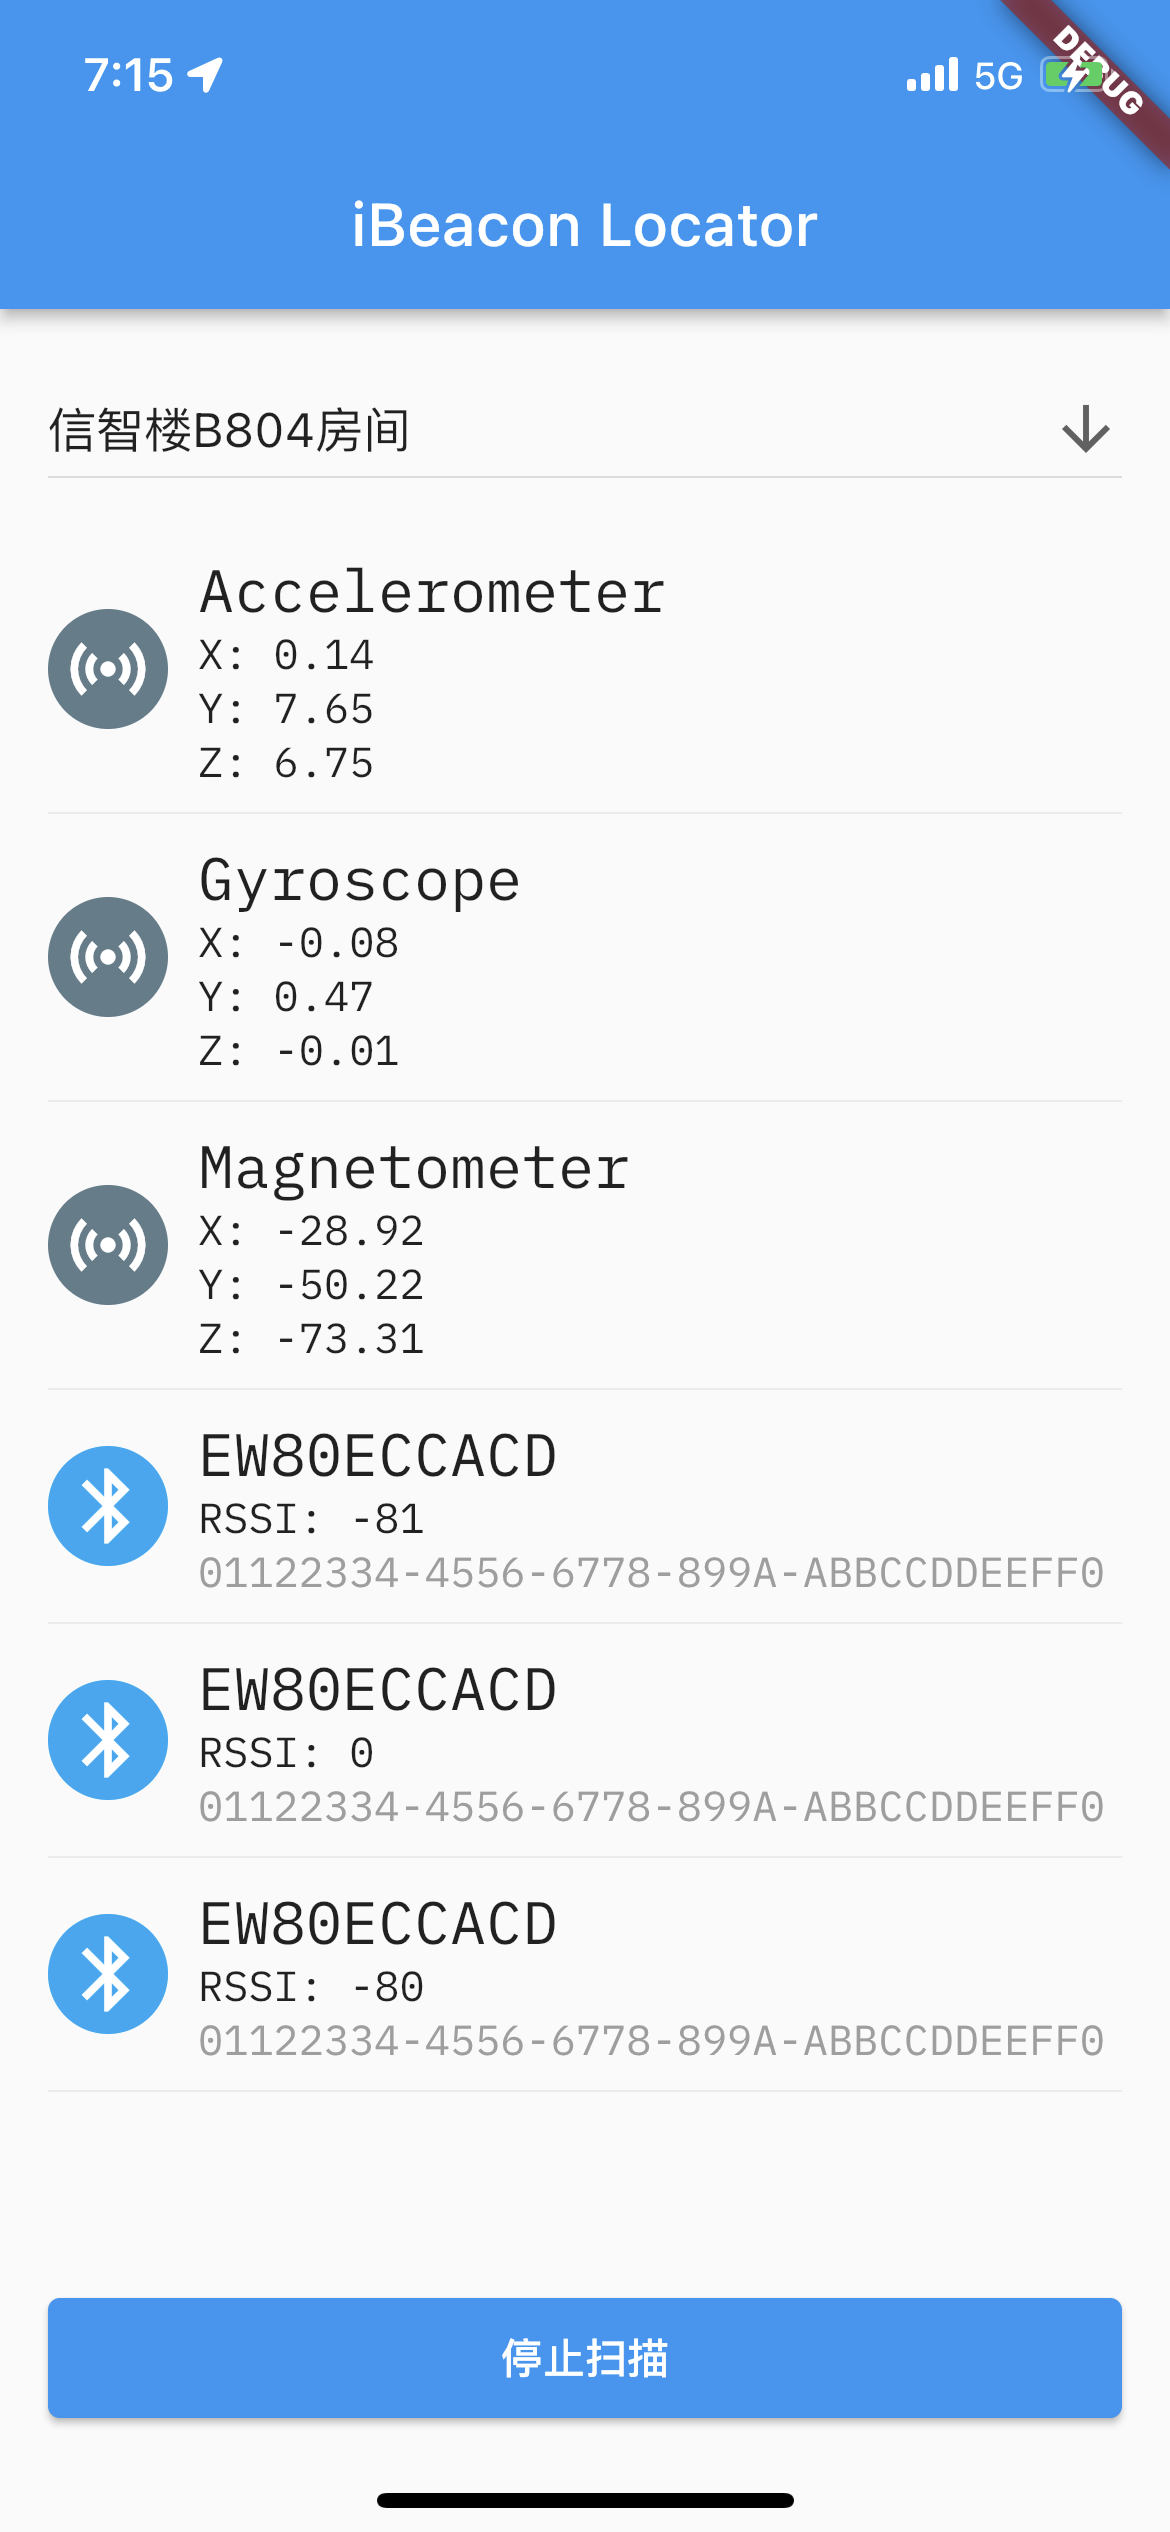
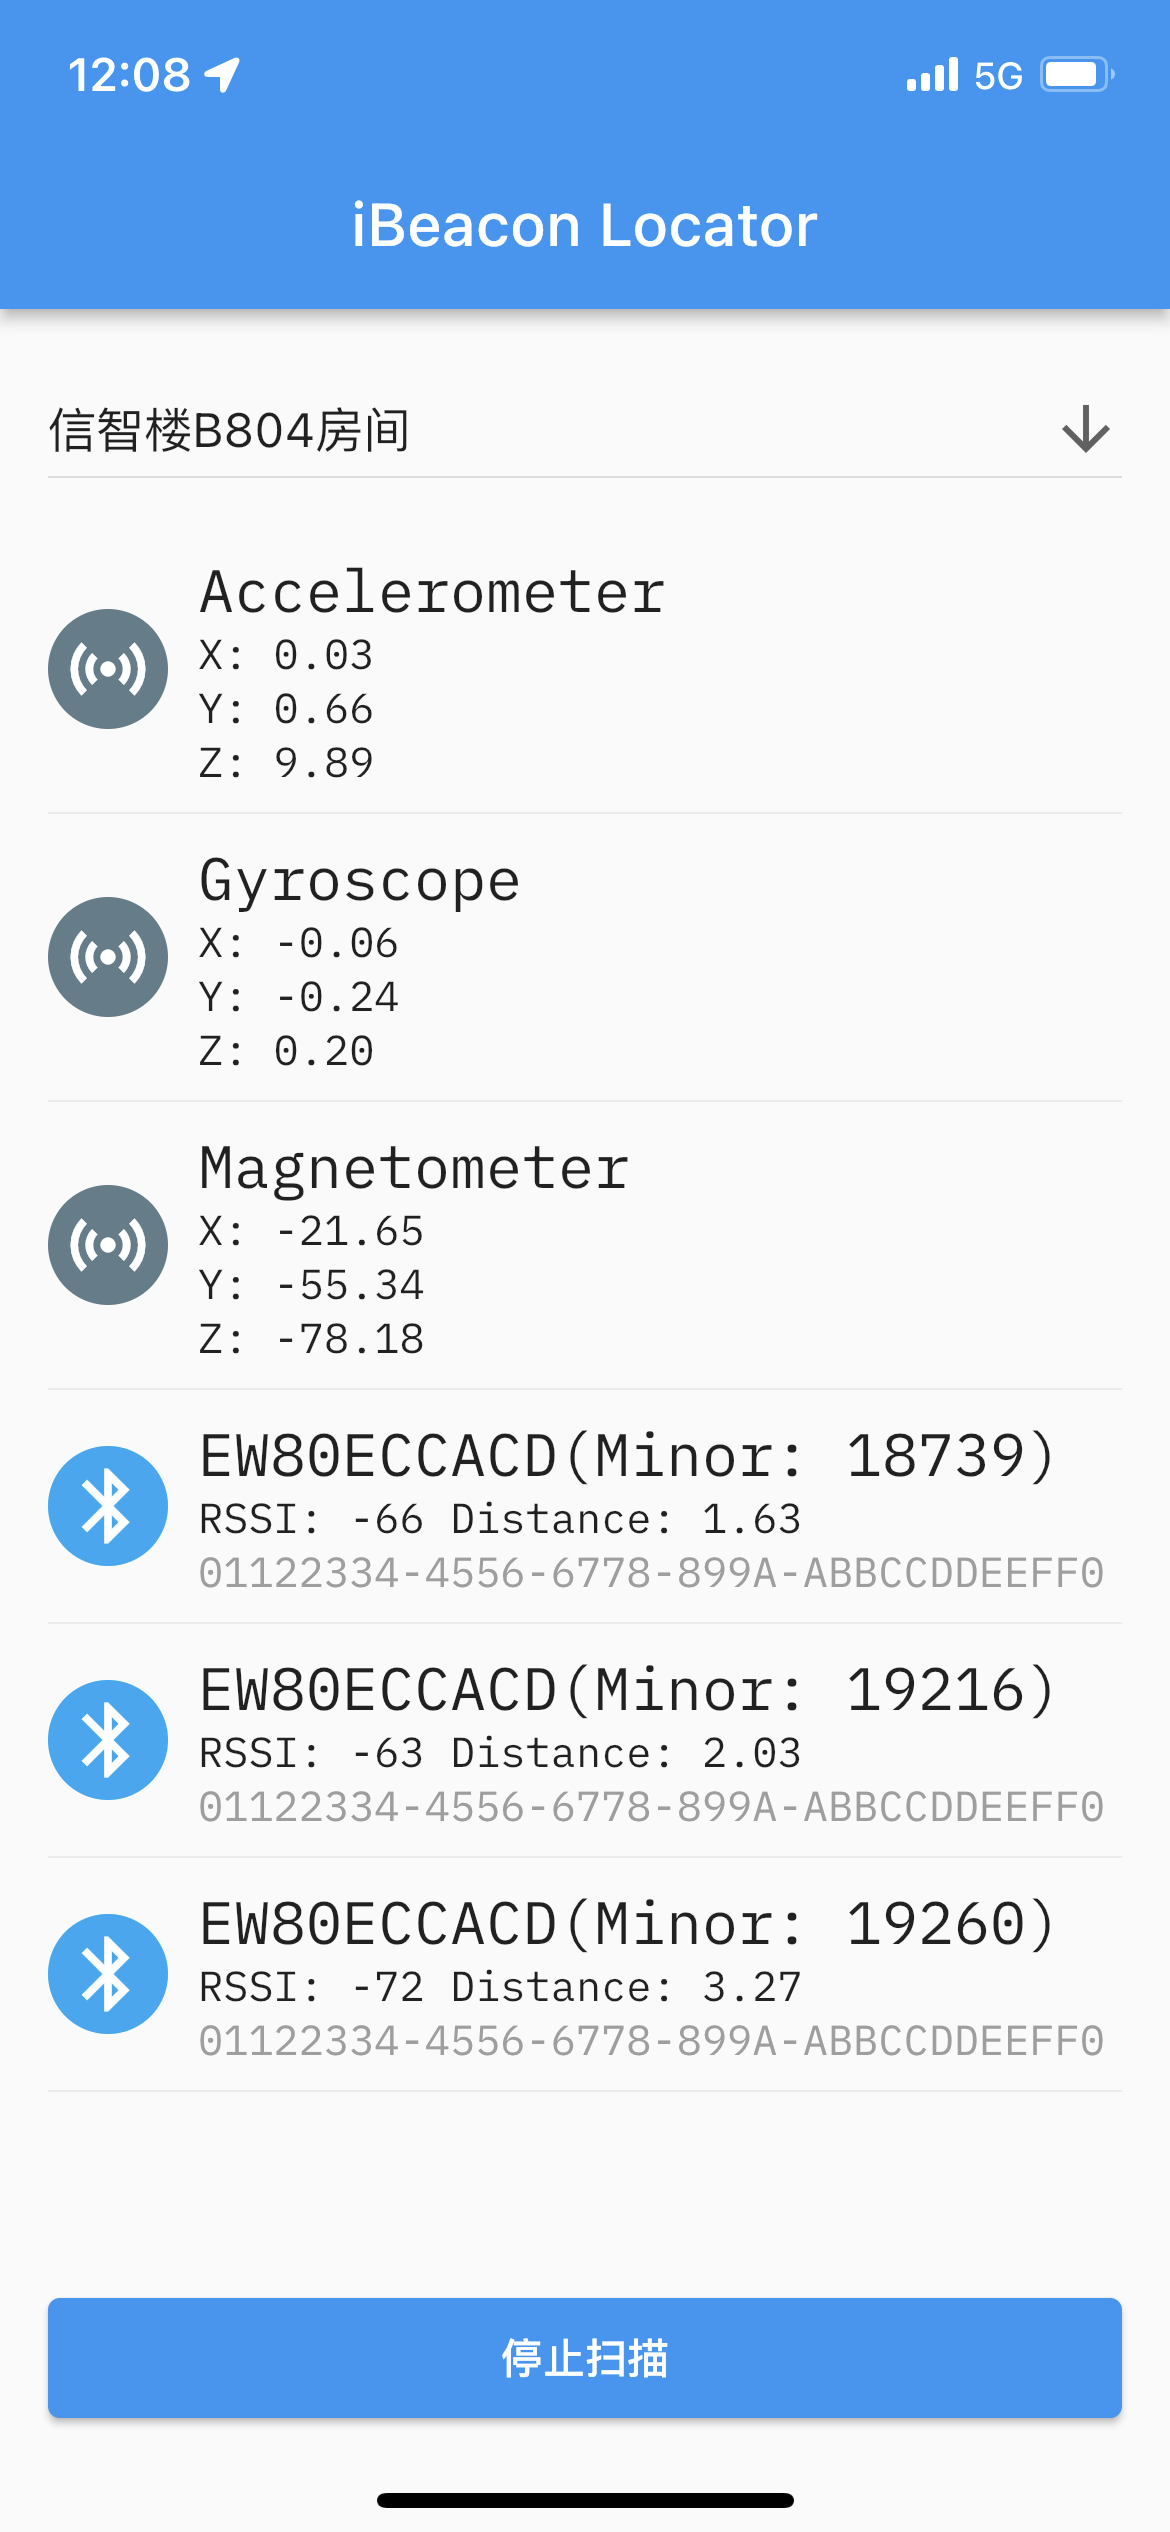
add minor info to beacon list

diff --git a/lib/main.dart b/lib/main.dart
@@ -173,7 +173,9 @@ class _MyHomePageState extends State<MyHomePage> {
   ///
   List<Widget> _buildBeaconTable() {
     final List<Widget> widgets = <Widget>[];
-    for (BeaconData data in _beaconDataList.values) {
+    for (MapEntry<String, BeaconData> entry in _beaconDataList.entries) {
+      BeaconData data = entry.value;
+      String minor = entry.key;
       widgets.add(Row(children: [
         Column(
           mainAxisAlignment: MainAxisAlignment.start,
@@ -198,12 +200,12 @@ class _MyHomePageState extends State<MyHomePage> {
             mainAxisAlignment: MainAxisAlignment.start,
             children: [
               Text(
-                data.name,
+                "${data.name}(Minor: $minor)",
                 style:
                     const TextStyle(fontSize: 20, fontFamily: "IBM Plex Mono"),
               ),
               Text(
-                "RSSI: ${data.rssi}",
+                "RSSI: ${data.rssi} Distance: ${data.distance}",
                 style: const TextStyle(fontFamily: "IBM Plex Mono"),
               ),
               Text(
